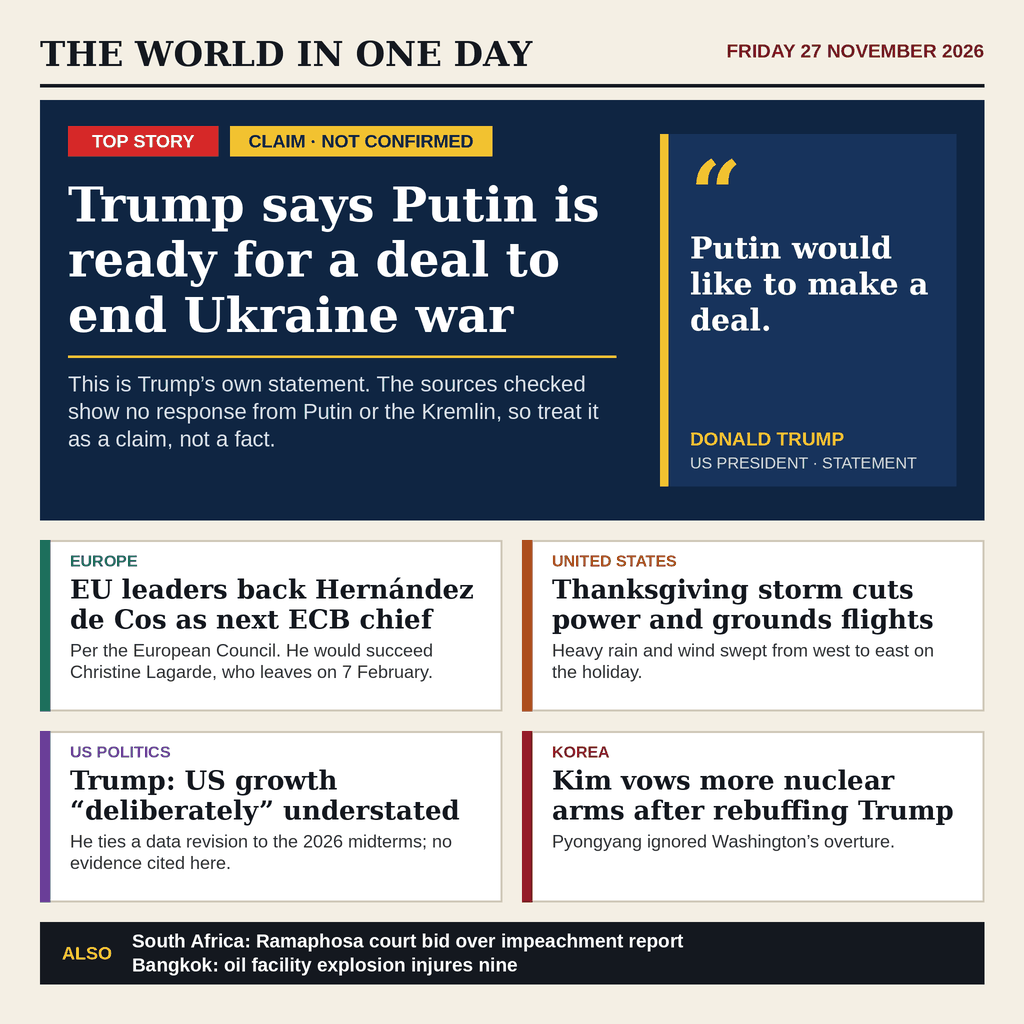
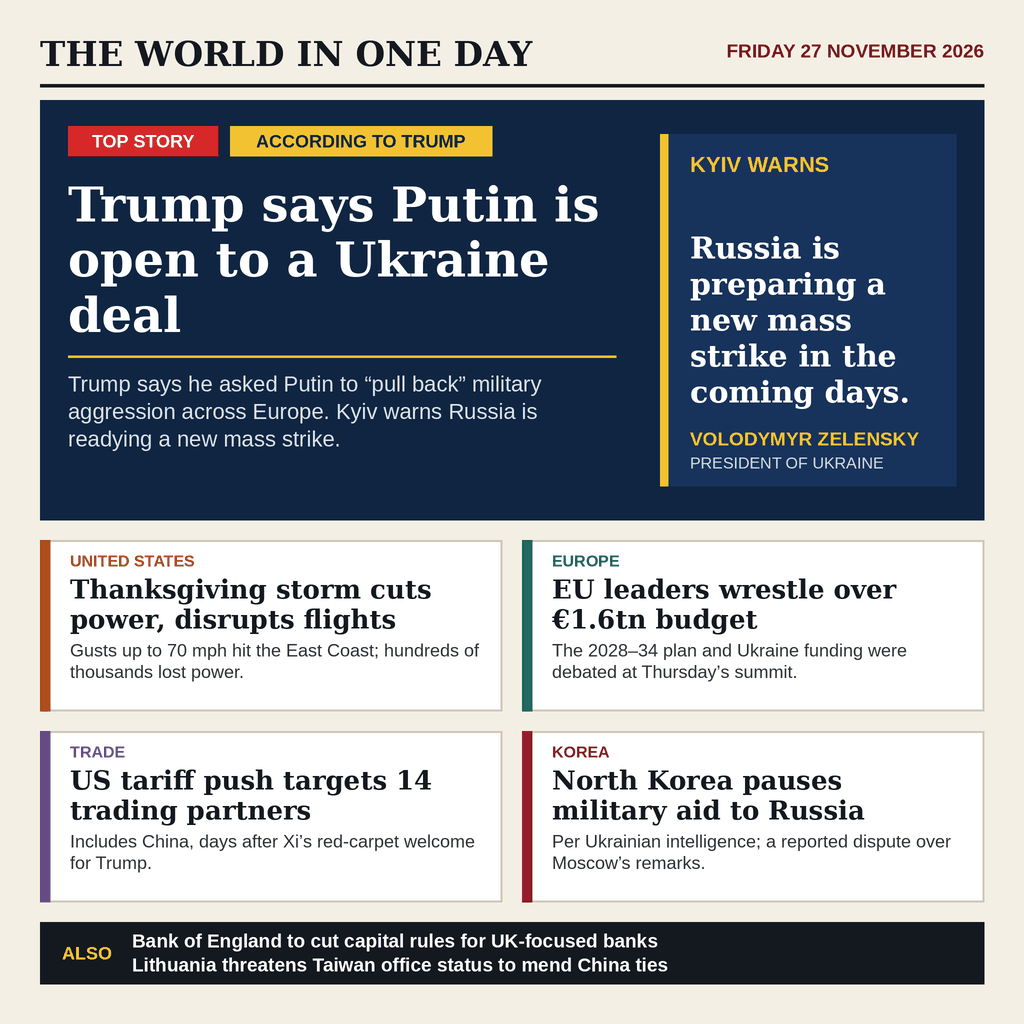
Rewrite stories to those verified in 27 Nov wire reports; fix panel attribution overflow
The starter's cards (ECB chief, Kim, growth data, Ramaphosa, Bangkok) and its
claim that the Kremlin had not responded were not supported by sources I could
check. Replaced with Ukraine diplomacy, Thanksgiving storm, EU budget summit,
US tariffs, North Korea aid pause, plus BoE and Lithuania in the ticker.

diff --git a/tools/build.py b/tools/build.py
@@ -42,27 +42,27 @@ TX = M+28; TW = 548
 R(TX,T+26,TX+150,T+56,fill="#d62828")
 d.text(((TX+75)*S,(T+41)*S),"TOP STORY",font=F(SANS,18),fill="#fff",anchor="mm")
 R(TX+162,T+26,TX+162+262,T+56,fill="#f2c230")
-d.text(((TX+162+131)*S,(T+41)*S),"CLAIM \u00b7 NOT CONFIRMED",font=F(SANS,18),fill="#0f2542",anchor="mm")
-yh=text(TX,T+76,"Trump says Putin is ready for a deal to end Ukraine war",F(SERIF,48),"#ffffff",TW,lh=1.15,box_bottom=B-130)
+d.text(((TX+162+131)*S,(T+41)*S),"ACCORDING TO TRUMP",font=F(SANS,18),fill="#0f2542",anchor="mm")
+yh=text(TX,T+76,"Trump says Putin is open to a Ukraine deal",F(SERIF,48),"#ffffff",TW,lh=1.15,box_bottom=B-130)
 R(TX,yh+14,TX+TW,yh+16,fill="#f2c230")
-text(TX,yh+30,"This is Trump\u2019s own statement. The sources checked show no response from Putin or the Kremlin, so treat it as a claim, not a fact.",F(SANSR,22),"#d6e0f0",TW,lh=1.25,box_bottom=B-12)
+text(TX,yh+30,"Trump says he asked Putin to \u201cpull back\u201d military aggression across Europe. Kyiv warns Russia is readying a new mass strike.",F(SANSR,22),"#d6e0f0",TW,lh=1.25,box_bottom=B-12)
 # right column: the quoted words, attributed (information, not decoration)
 qx0,qx1 = 660, W-M-28
 R(qx0,T+34,qx1,B-34,fill="#17335c")
 R(qx0,T+34,qx0+8,B-34,fill="#f2c230")
-d.text(((qx0+30)*S,(T+40)*S),"\u201c",font=F(SERIF,90),fill="#f2c230")
-text(qx0+30,T+130,"Putin would like to make a deal.",F(SERIF,30),"#ffffff",qx1-qx0-52,lh=1.2,box_bottom=B-110)
-d.text(((qx0+30)*S,(B-92)*S),"DONALD TRUMP",font=F(SANS,19),fill="#f2c230")
-d.text(((qx0+30)*S,(B-66)*S),"US PRESIDENT \u00b7 STATEMENT",font=F(SANSR,16),fill="#cfd9ea")
+d.text(((qx0+30)*S,(T+52)*S),"KYIV WARNS",font=F(SANS,22),fill="#f2c230")
+text(qx0+30,T+130,"Russia is preparing a new mass strike in the coming days.",F(SERIF,30),"#ffffff",qx1-qx0-52,lh=1.2,box_bottom=B-110)
+d.text(((qx0+30)*S,(B-92)*S),"VOLODYMYR ZELENSKY",font=F(SANS,19),fill="#f2c230")
+d.text(((qx0+30)*S,(B-66)*S),"PRESIDENT OF UKRAINE",font=F(SANSR,16),fill="#cfd9ea")
 
 # cards (no icons: type carries the story)
 gap=20; cw=(W-2*M-gap)/2; top=B+gap; STRIP=62
 ch=(H-M-STRIP-gap-top-gap)/2
 cards=[
- ("EUROPE","#1b6e5a","EU leaders back Hernández de Cos as next ECB chief","Per the European Council. He would succeed Christine Lagarde, who leaves on 7 February."),
- ("UNITED STATES","#a84a12","Thanksgiving storm cuts power and grounds flights","Heavy rain and wind swept from west to east on the holiday."),
- ("US POLITICS","#6a3d9a","Trump: US growth \u201cdeliberately\u201d understated","He ties a data revision to the 2026 midterms; no evidence cited here."),
- ("KOREA","#8a1c2b","Kim vows more nuclear arms after rebuffing Trump","Pyongyang ignored Washington\u2019s overture."),
+ ("UNITED STATES","#a84a12","Thanksgiving storm cuts power, disrupts flights","Gusts up to 70 mph hit the East Coast; hundreds of thousands lost power."),
+ ("EUROPE","#1b6e5a","EU leaders wrestle over \u20ac1.6tn budget","The 2028\u201334 plan and Ukraine funding were debated at Thursday\u2019s summit."),
+ ("TRADE","#6a3d9a","US tariff push targets 14 trading partners","Includes China, days after Xi\u2019s red-carpet welcome for Trump."),
+ ("KOREA","#8a1c2b","North Korea pauses military aid to Russia","Per Ukrainian intelligence; a reported dispute over Moscow\u2019s remarks."),
 ]
 for i,(k,col,hl,sub) in enumerate(cards):
     x0=M+(i%2)*(cw+gap); y0=top+(i//2)*(ch+gap); x1=x0+cw; y1=y0+ch
@@ -73,7 +73,7 @@ for i,(k,col,hl,sub) in enumerate(cards):
 sy=H-M-STRIP
 R(M,sy,W-M,H-M,fill=INK)
 d.text(((M+22)*S,(sy+STRIP/2)*S),"ALSO",font=F(SANS,18),fill="#f2c230",anchor="lm")
-for j,t in enumerate(["South Africa: Ramaphosa court bid over impeachment report","Bangkok: oil facility explosion injures nine"]):
+for j,t in enumerate(["Bank of England to cut capital rules for UK-focused banks","Lithuania threatens Taiwan office status to mend China ties"]):
     assert d.textlength(t,font=F(SANS,19))<=(W-2*M-92-20)*S
     d.text(((M+92)*S,(sy+8+j*24)*S),t,font=F(SANS,19),fill="#ffffff")
 

diff --git a/README.md b/README.md
@@ -21,9 +21,12 @@ overflow or wash out fails the build instead of shipping.
 
 ## What the page says
 
-The lead is labelled `CLAIM · NOT CONFIRMED`: Trump's own statement that Putin is
-ready for a deal. The card stories cite who said what, and the ECB item is
-attributed to the European Council. A lower ticker adds items of the day.
+The lead is labelled `ACCORDING TO TRUMP`: his statement that Putin is open to a
+Ukraine deal, set beside Zelensky's warning of a new Russian mass strike. Cards:
+the Thanksgiving storm, the EU budget summit, US tariffs on 14 partners, and North
+Korea pausing military aid to Russia (per Ukrainian intelligence). A ticker adds
+the Bank of England and Lithuania items. Sources: Reuters items as carried by The
+Standard (HK) morning recap and SBS News, 27 Nov 2026.
 
 ---
 
